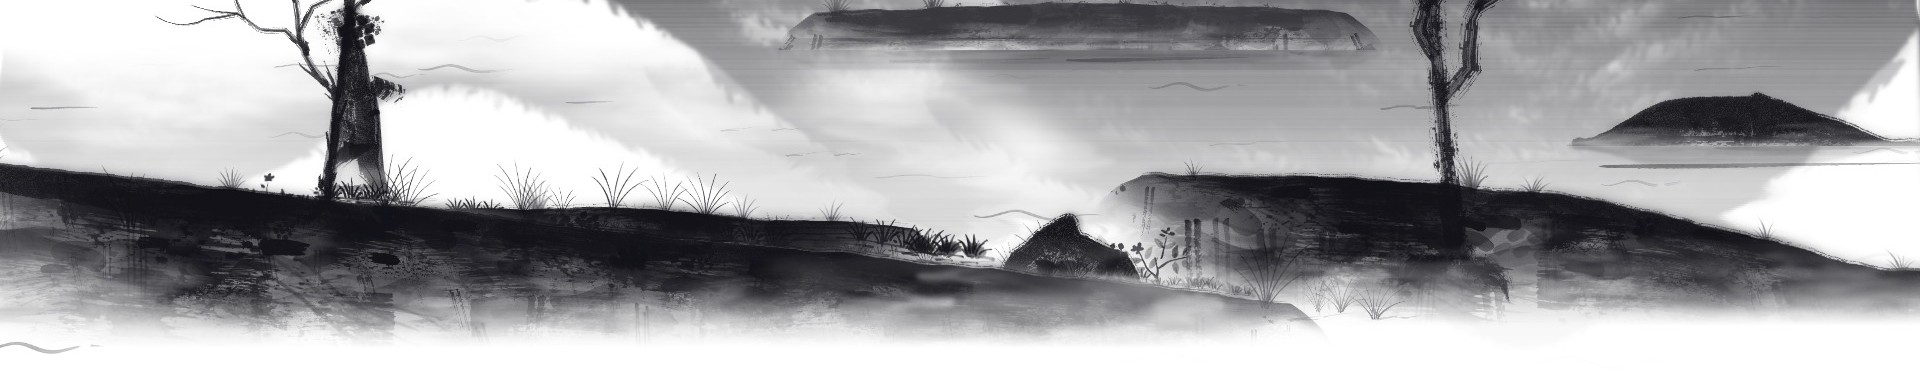
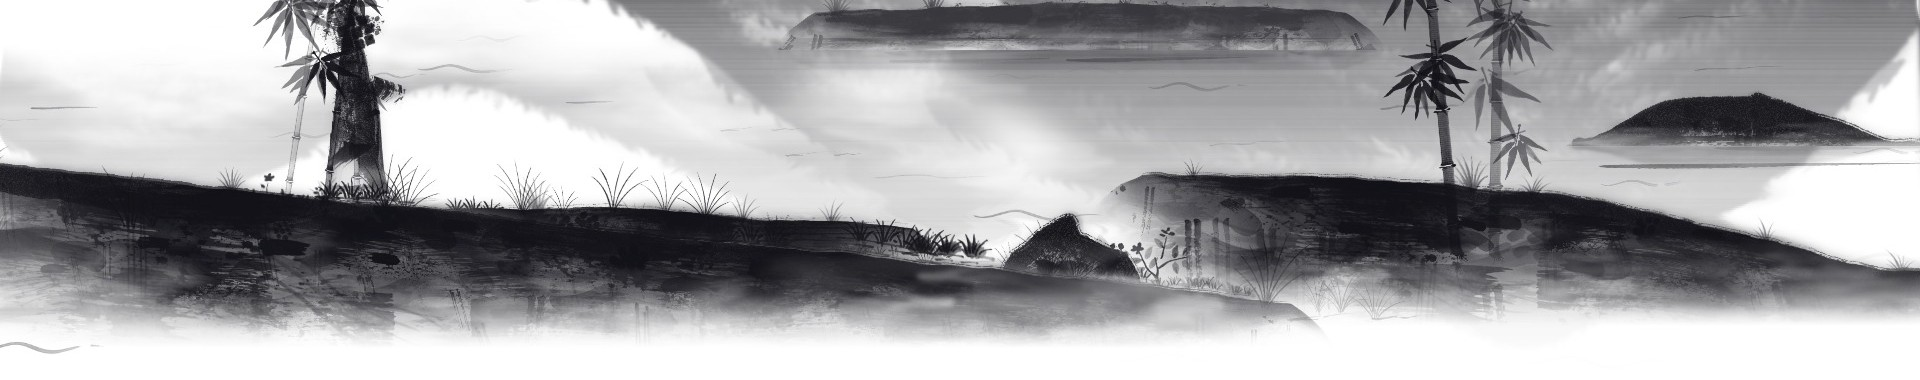
Plants end at the foot of their land: no roots hanging out under the bank

diff --git a/web/room/paint.js b/web/room/paint.js
@@ -1450,9 +1450,11 @@
     if (key !== bakeKey) { bakeKey = key; bake.width = ink.width; bake.height = ink.height; const b = bake.getContext('2d');
       // The mist at a land's foot lies over what grows on that land too (Yang 11-19: roots and grass at the foot stood out sharp before the mist): the land's
       // mist is held back until the last tree or tuft rooted on it has been laid, then wiped through all of them at once (once: wiping per plant would thin the land each time).
-      const hostOf = (d) => { if ((d.kind !== 'tree' && d.kind !== 'grass') || !d.root) return null; let h = null, hz = -1e9; for (const o of old) { const m = o.m; if (!m.solid || !m.mist) continue; const k = Math.floor((d.root[0] - m.bx0) / BIN); if (k >= 0 && k < m.ts.length && d.root[1] > m.ts[k] - 0.04 * H && d.root[1] < m.yBase + 0.02 * H && zk(o) > hz) { hz = zk(o); h = o; } } return h; },
-        lastOf = new Map(), mistOn = (d) => { const [mx, my, q] = d.m.mxy; b.setTransform(1, 0, 0, 1, 0, 0); b.globalCompositeOperation = 'destination-out'; b.globalAlpha = mistA(d); b.imageSmoothingEnabled = true; b.imageSmoothingQuality = 'high'; b.drawImage(d.m.mist, Math.round(mx * dpr), Math.round(my * dpr), d.m.mist.width * q * dpr, d.m.mist.height * q * dpr); b.globalAlpha = 1; b.globalCompositeOperation = 'source-over'; };
-      old.forEach((d, i) => { const h = hostOf(d); if (h) lastOf.set(h, i); });
+      const hostOf = (d) => { if ((d.kind !== 'tree' && d.kind !== 'grass') || !d.root) return null; let h = null, hz = -1e9; for (const o of old) { const m = o.m; if (!m.solid) continue; const k = Math.floor((d.root[0] - m.bx0) / BIN); if (k >= 0 && k < m.ts.length && d.root[1] > m.ts[k] - 0.04 * H && d.root[1] < m.yBase + 0.02 * H && zk(o) > hz) { hz = zk(o); h = o; } } return h; },
+        lastOf = new Map(), mistOn = (d) => { if (!d.m.mist) return; const [mx, my, q] = d.m.mxy; b.setTransform(1, 0, 0, 1, 0, 0); b.globalCompositeOperation = 'destination-out'; b.globalAlpha = mistA(d); b.imageSmoothingEnabled = true; b.imageSmoothingQuality = 'high'; b.drawImage(d.m.mist, Math.round(mx * dpr), Math.round(my * dpr), d.m.mist.width * q * dpr, d.m.mist.height * q * dpr); b.globalAlpha = 1; b.globalCompositeOperation = 'source-over'; };
+      old.forEach((d, i) => { const h = hostOf(d); if (!h) return; lastOf.set(h, i);
+        // nothing of a plant reaches below the foot of its land (roots hung out under the bank, past its mist, on the bare paper): its ink thins out over the last stretch above the foot. Once per plant and land.
+        if (d.m.cv && d.m.clipK !== h.seed + ':' + h.t0) { d.m.clipK = h.seed + ':' + h.t0; const x = d.m.cv.getContext('2d'), y1 = (h.m.yBase - d.m.oy) * dpr, y0 = y1 - 0.035 * H * dpr; if (y0 < d.m.cv.height) { const gd = x.createLinearGradient(0, y0, 0, y1); gd.addColorStop(0, 'rgba(0,0,0,0)'); gd.addColorStop(1, 'rgba(0,0,0,1)'); x.save(); x.setTransform(1, 0, 0, 1, 0, 0); x.globalAlpha = 1; x.globalCompositeOperation = 'destination-out'; x.fillStyle = gd; x.fillRect(0, y0, d.m.cv.width, d.m.cv.height - y0); x.restore(); } } });
       old.forEach((d, i) => { b.setTransform(1, 0, 0, 1, 0, 0); b.globalCompositeOperation = 'destination-out'; b.globalAlpha = 1; b.drawImage(d.m.body, Math.round(d.m.ox * dpr), Math.round(d.m.oy * dpr)); b.globalCompositeOperation = 'source-over'; if (d.m.wat && MIRROR) mirror(b, d.m, old.reduce((y, o) => (o !== d && (!o.m.river || o.m.solid) && zk(o) <= zk(d) && o.m.ox < d.m.ox + d.m.wat.width / dpr && o.m.ox + o.m.cv.width / dpr > d.m.ox ? Math.min(y, o.m.yTop) : y), d.m.yTop)); lay(b, d.m, d.m.tone);
         if (d.m.mist && !lastOf.has(d)) mistOn(d); for (const [h, j] of lastOf) if (j === i) mistOn(h); }); }
     if (old.length) { c.save(); c.setTransform(1, 0, 0, 1, 0, 0); c.drawImage(bake, 0, 0); c.restore(); }

diff --git a/DESIGN.md b/DESIGN.md
@@ -195,3 +195,4 @@ Water as layer divider + whole-mountain mirror image = modern ink style (classic
 - Grass foot: built upper line lies under the flown one, tufts stood in the air. inkOn now also records m.inkY (first row with alpha>110 near ts); a tuft above the edge is set at inkY + 0.007 H. Left: _v patches carry their own ground dash, on a slope the dash still shows a hair above the edge.
 - Edge tufts lean with the slope of the ink edge (ground().sl over +-3 bins, clamp 0.6 rad); tufts on the bank face stay upright.
 - Foot mist over plants (Yang 11-19): a land with trees/grass rooted on it holds its mist back in the bake until its last plant is laid, then wipes once through land + plants (hostOf/lastOf in render). Live foliage (wind strips) drawn after the bake is NOT misted. reports/foot-mist.jpg.
+- Roots under the foot (Yang shot: bamboo roots hanging out below the bank, past its mist): a plant's cv is faded out over the last 3.5% H above its land's foot (once, m.clipK), nothing of it below. Case not reproduced in bot.
